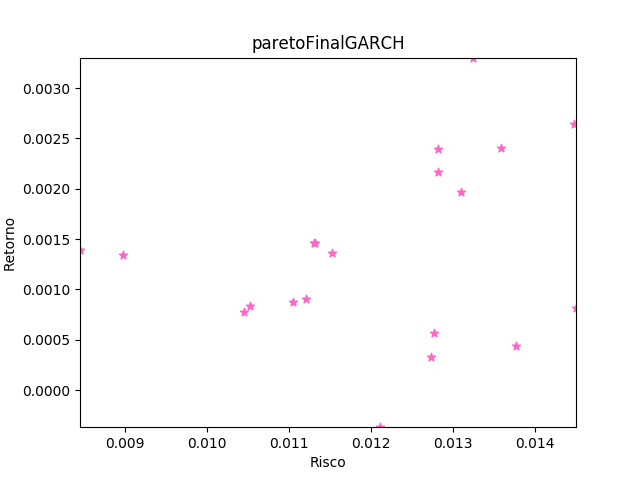
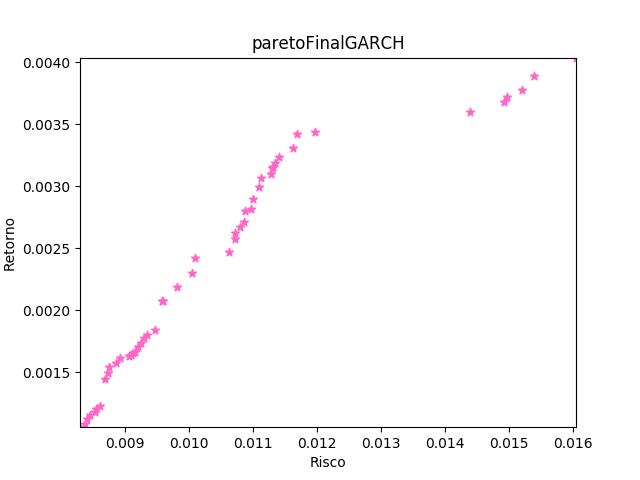
savefig

diff --git a/semestral/grafico.py b/semestral/grafico.py
@@ -131,4 +131,5 @@ def grafico_tempo_barras(carteiras_semestre, lista_ativos_proximo_semestre):
     plt.legend()
 
     plt.tight_layout()
+    plt.savefig('graficos/MelhorCarteiraSemestre.png')
     plt.show()

diff --git a/semestral/globais.py b/semestral/globais.py
@@ -1,7 +1,7 @@
-TAM_POP = 20
+TAM_POP = 50
 CARDINALIDADE = 9
-ITERACOES = 1
-EXECUCOES = 1
+ITERACOES = 50
+EXECUCOES = 2
 QUANTIDADE_ATIVOS = 62
 QUANTIDADE_METRICAS = 5
 PROBABILIDADE_MUTACAO = 0.1
